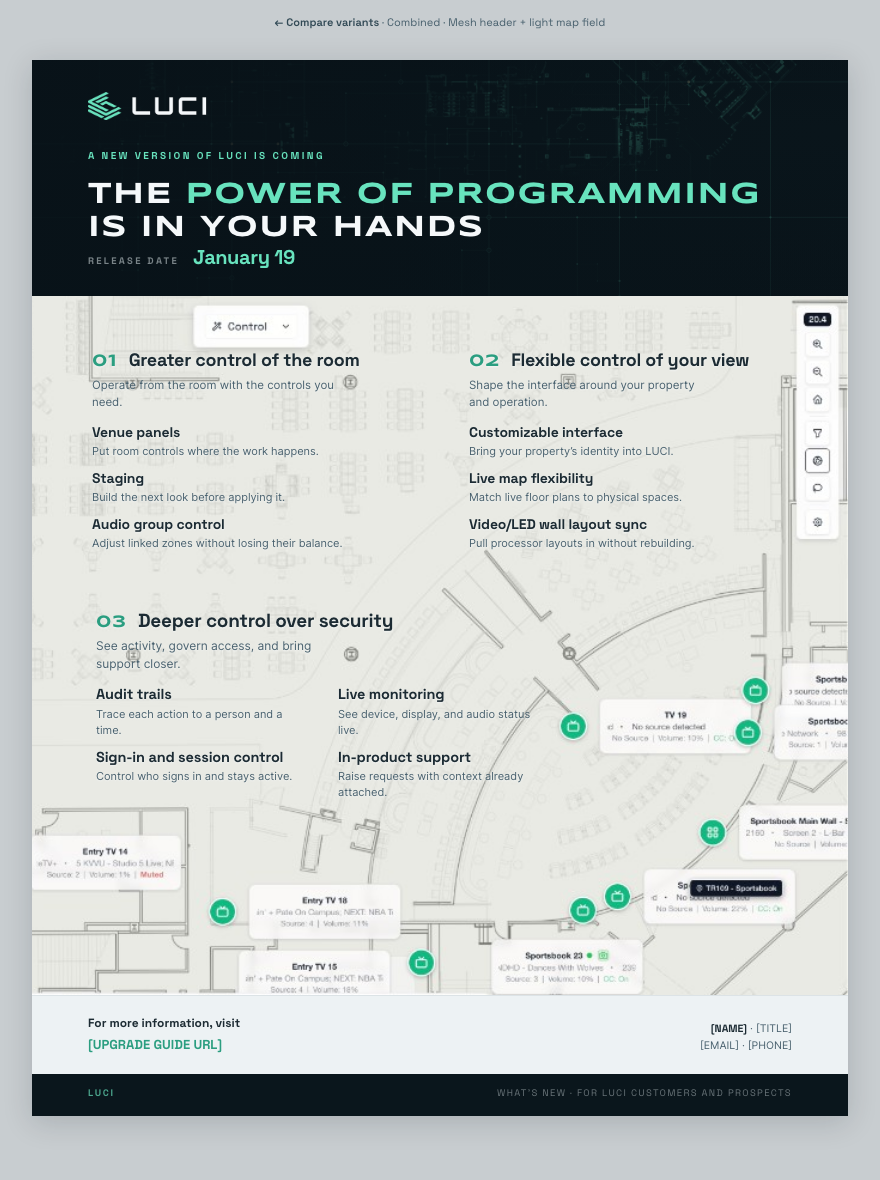
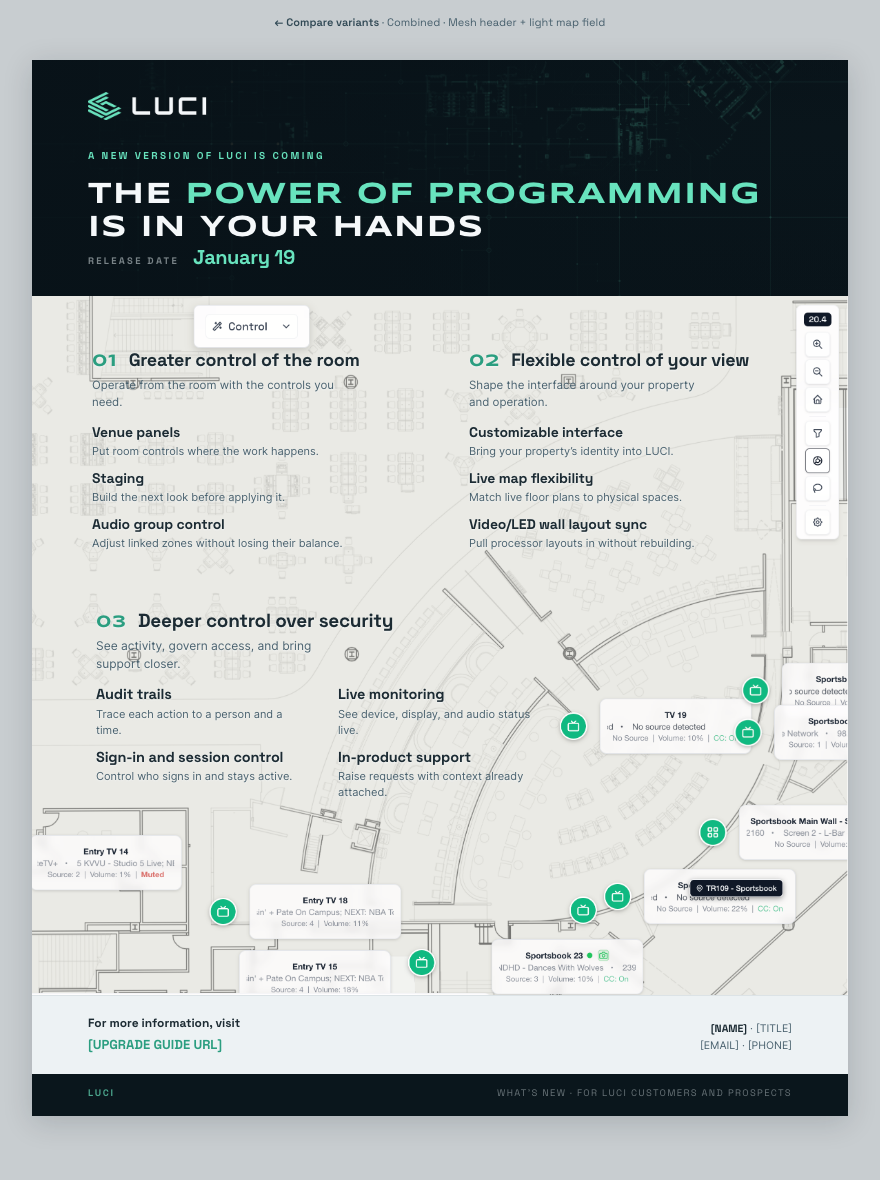
What's New one-pager: swap to clean high-res map (v6, 3552x2028 PNG)
The paste-into-chat pipeline JPEG-compressed Jane's screenshot
from a crisp 3552x2028 lossless PNG (2.2MB) down to a fuzzy
1024x584 JPEG (82KB). Copied the clean original directly off
her Desktop (bypassing the paste pipeline) as
new-luci-map-light-v6.png. 3552px wide = ~418 DPI at 8.5in,
well above the 300 DPI print threshold — crisp in PDF.

diff --git a/LUCI Systems Design System/ui_kits/sales/new-luci-whats-new-onepager-flow-c.html b/LUCI Systems Design System/ui_kits/sales/new-luci-whats-new-onepager-flow-c.html
@@ -156,7 +156,7 @@ body{font-family:var(--font-body);background:#c8cdd0;color:var(--ink);font-size:
     </header>
 
     <div class="field">
-      <img class="field__shot" src="assets/new-luci-map-light-v5.png?v=1" alt="" aria-hidden="true">
+      <img class="field__shot" src="assets/new-luci-map-light-v6.png?v=1" alt="" aria-hidden="true">
 
       <div class="copy">
         <h2 class="copy__title">The 3 Promises of New LUCI</h2>
